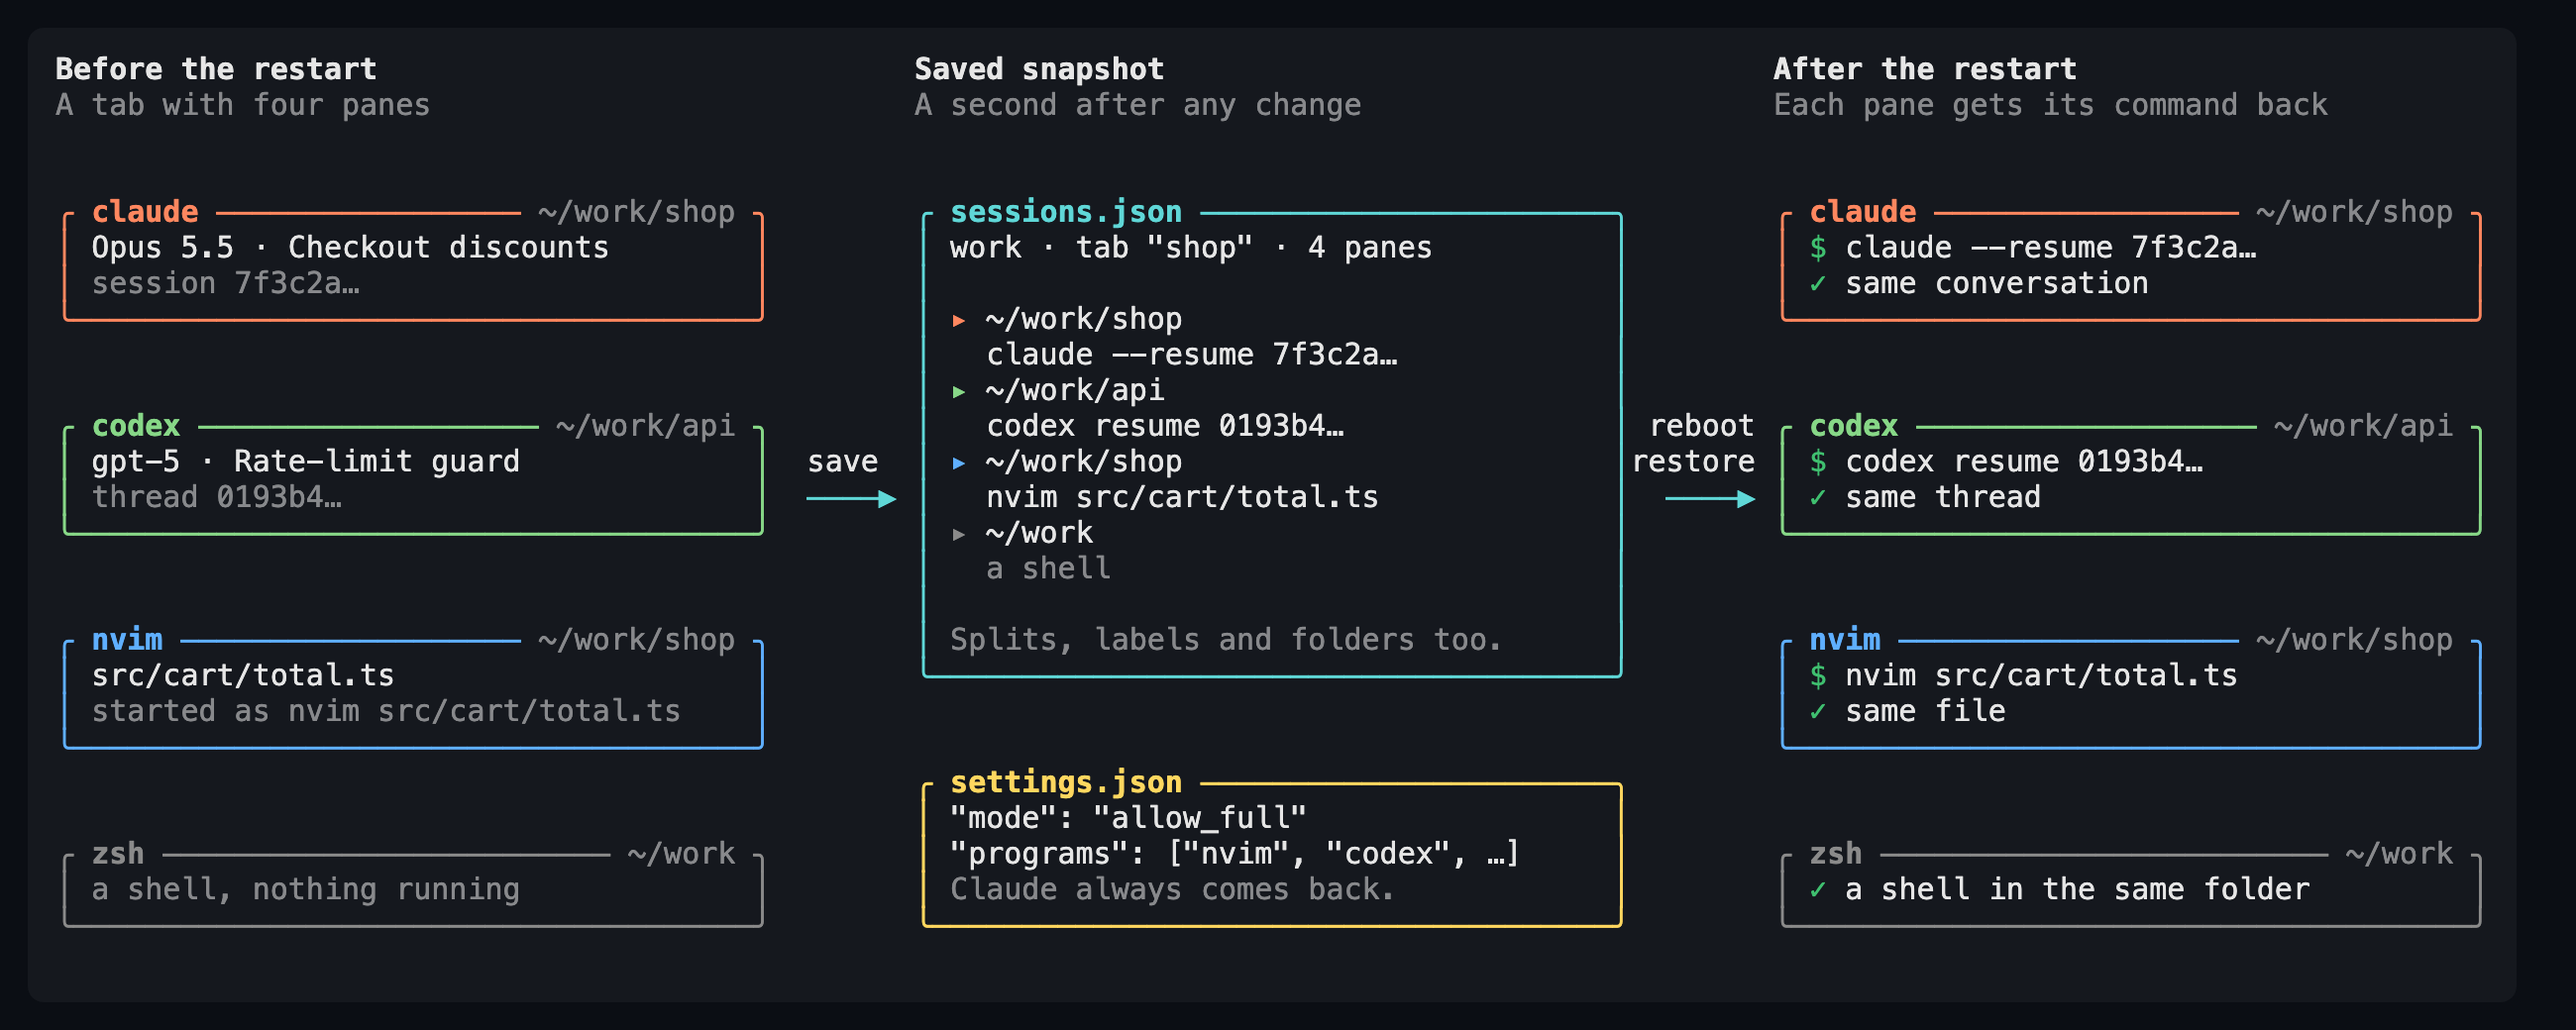
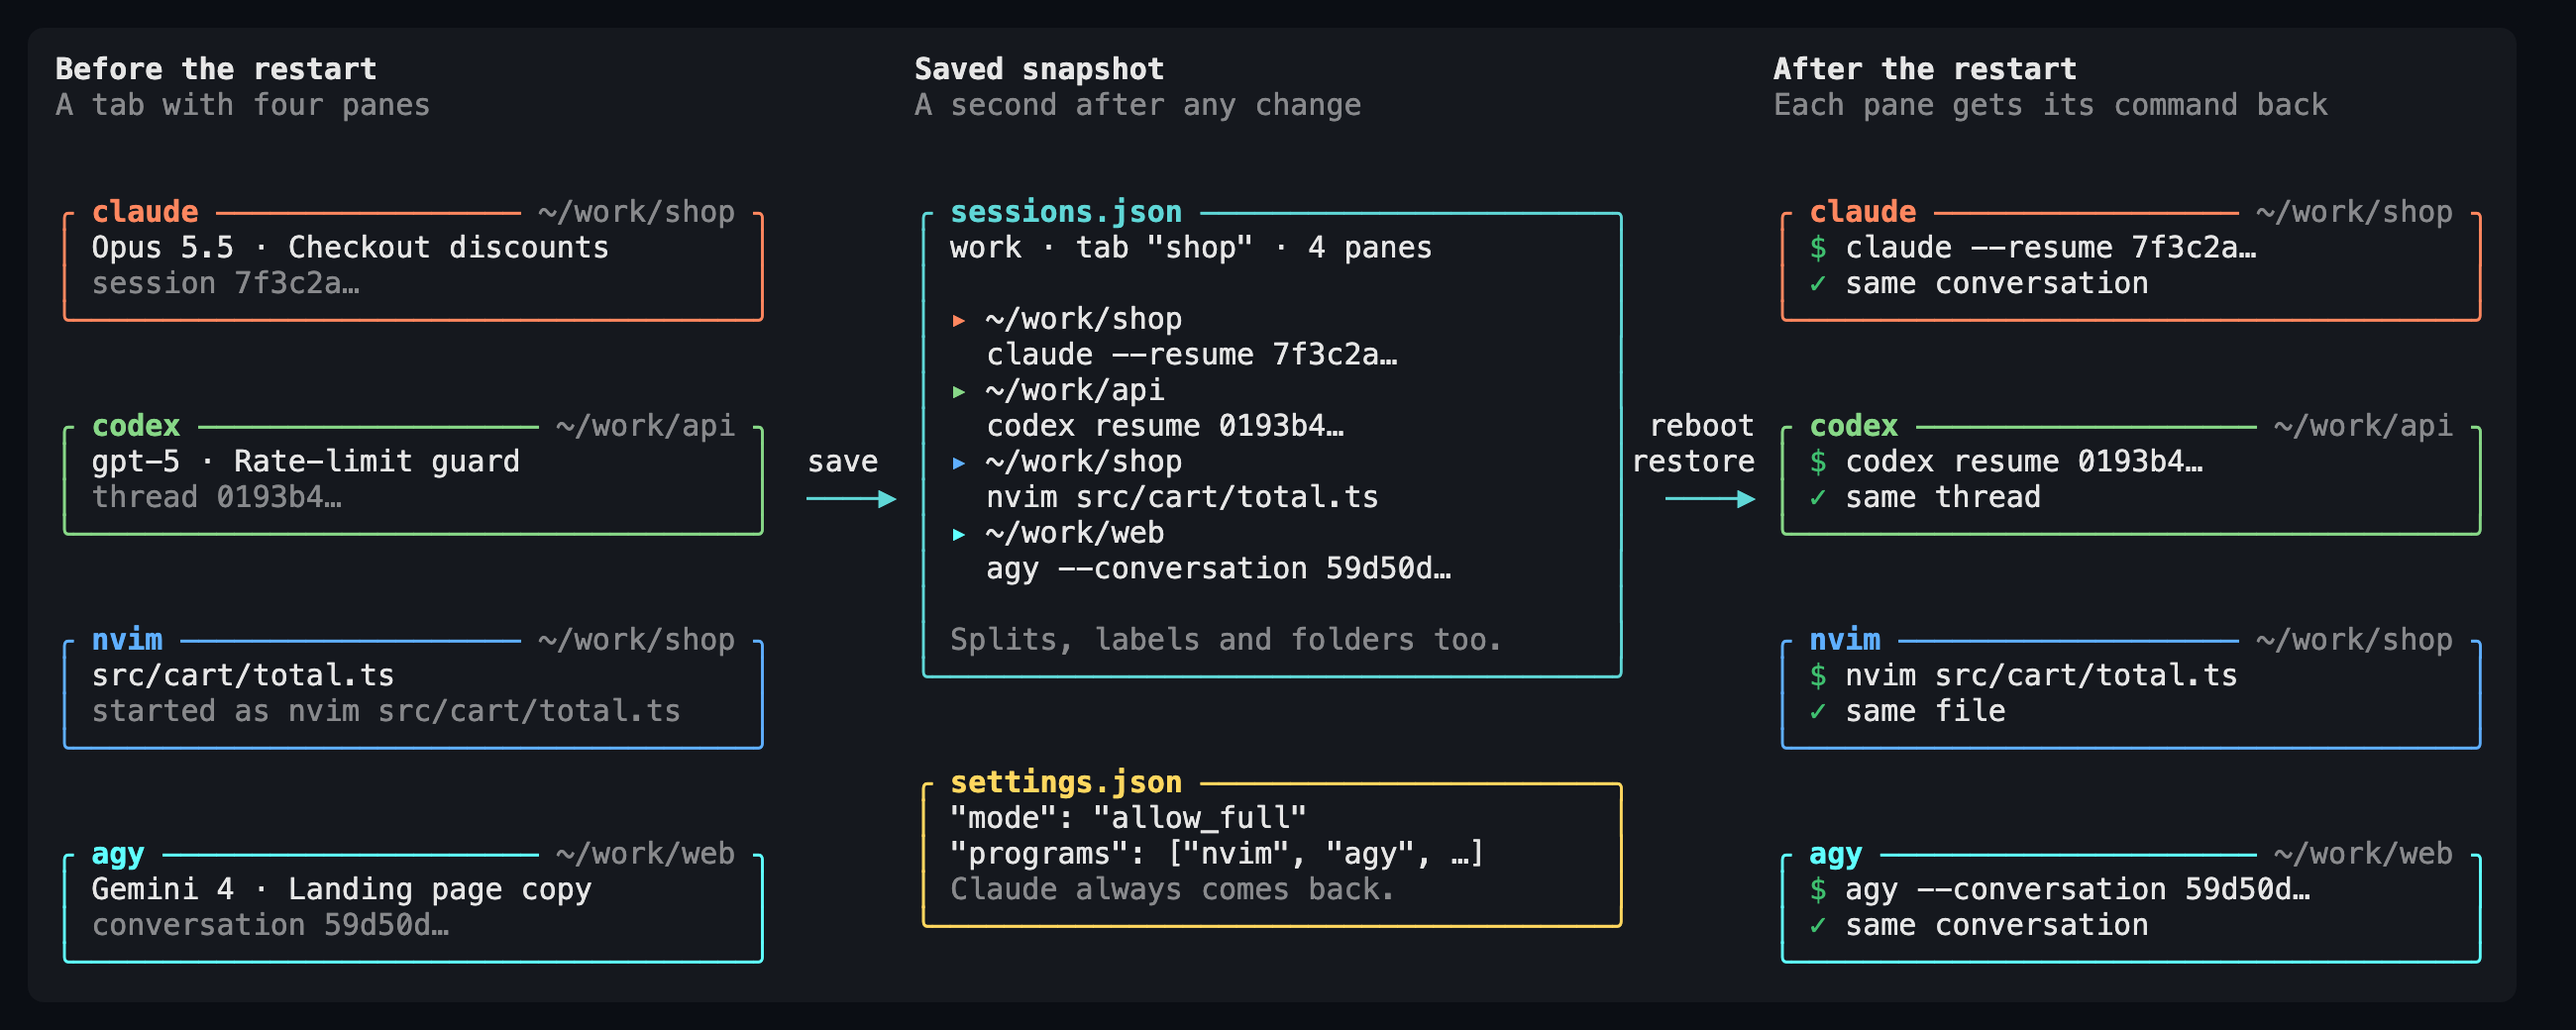
docs: v1.1.0 changelog and new pictures with the Info clock and agy

diff --git a/rex-sidecar/README.md b/rex-sidecar/README.md
@@ -24,7 +24,7 @@ or `agy` in a tab. [Full install →](#install)
 [Keys and mouse](#keys-and-mouse) · [Tab settings](#tab-settings) ·
 [Tab plugins](#tab-plugins) · [Install](#install) · [Files](#files) · [Tests](#tests)
 
-![Four sidecar panes with made-up data: Info with the model, permission checks, agents and running processes; Changes on a pull request; Artifacts with documents, PRs, Jira issues and links; and Reminders with the next task, today's list and a report waiting for confirmation](../docs/rex-sidecar.png)
+![Four sidecar panes with made-up data: Info with the time and date, the model, permission checks, agents and running processes; Changes on a pull request; Artifacts with documents, PRs, Jira issues and links; and Reminders with the next task, today's list and a report waiting for confirmation](../docs/rex-sidecar.png)
 
 The sidecar replaces Claude Code's own diff panel. Turn that one off with
 `"diffSidebarOpen": false` in `~/.claude.json`.

diff --git a/README.md b/README.md
@@ -41,7 +41,7 @@ Answers two questions: what did the agent change, and what's still waiting on
 you? The pane opens on the right of every Claude Code, Codex or agy pane and closes
 when the agent exits.
 
-![rex-sidecar with made-up data. Info: the model, context, limits, permission checks, subagents, running shells, open questions and the last turn. Changes: the files changed on a pull request. Artifacts: documents, PRs, Jira issues, links and files from the agent's replies. Reminders: the day's tasks, rated A, B and C.](docs/rex-sidecar.png)
+![rex-sidecar with made-up data. Info: the time and date, the model, context, limits, permission checks, subagents, running shells, open questions and the last turn. Changes: the files changed on a pull request. Artifacts: documents, PRs, Jira issues, links and files from the agent's replies. Reminders: the day's tasks, rated A, B and C.](docs/rex-sidecar.png)
 
 | Tab | What it shows |
 | --- | --- |

diff --git a/rex-resume/README.md b/rex-resume/README.md
@@ -3,7 +3,7 @@
 **Reboot without losing your place.** After a restart, a Rex update or a
 crash, every pane comes back running what it ran before.
 
-![A tab before a restart with claude, codex, nvim and zsh panes; the saved sessions.json snapshot and settings.json; the same panes after the restart with claude --resume, codex resume and nvim src/cart/total.ts typed back in; made-up data](../docs/rex-resume.png)
+![A tab before a restart with claude, codex, nvim and agy panes; the saved sessions.json snapshot and settings.json; the same panes after the restart with claude --resume, codex resume, nvim src/cart/total.ts and agy --conversation typed back in; made-up data](../docs/rex-resume.png)
 
 | Was running | Comes back as |
 | --- | --- |

diff --git a/CHANGELOG.md b/CHANGELOG.md
@@ -3,7 +3,10 @@
 Releases are tagged `vX.Y.Z` on GitHub. The skills keep their own versions,
 in each plugin's `plugin.json`.
 
-## Unreleased
+## v1.1.0 — 2026-11-22
+
+Agy support, two task tabs with Reminders done properly, task editing and
+deleting, a clock on the Info tab, and rewritten docs.
 
 ### rex-sidecar
 
